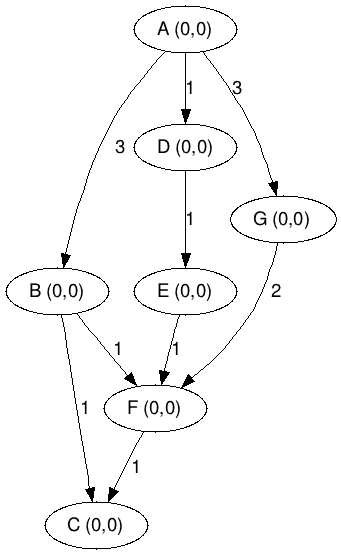
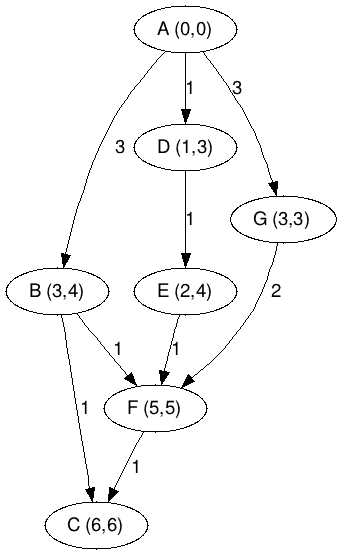
tests

diff --git a/Opdracht4-PERT/src/tests/PERTTests.java b/Opdracht4-PERT/src/tests/PERTTests.java
@@ -39,8 +39,9 @@ public class PERTTests {
 		correctNetwerk.connect(B, F, 1);
 		correctNetwerk.connect(D, E, 1);
 		correctNetwerk.connect(F, C, 1);
+		correctNetwerk.topologicalSort();
 
-		// System.out.println(correctNetwerk);
+		System.out.println(correctNetwerk);
 	}
 
 	@Test
